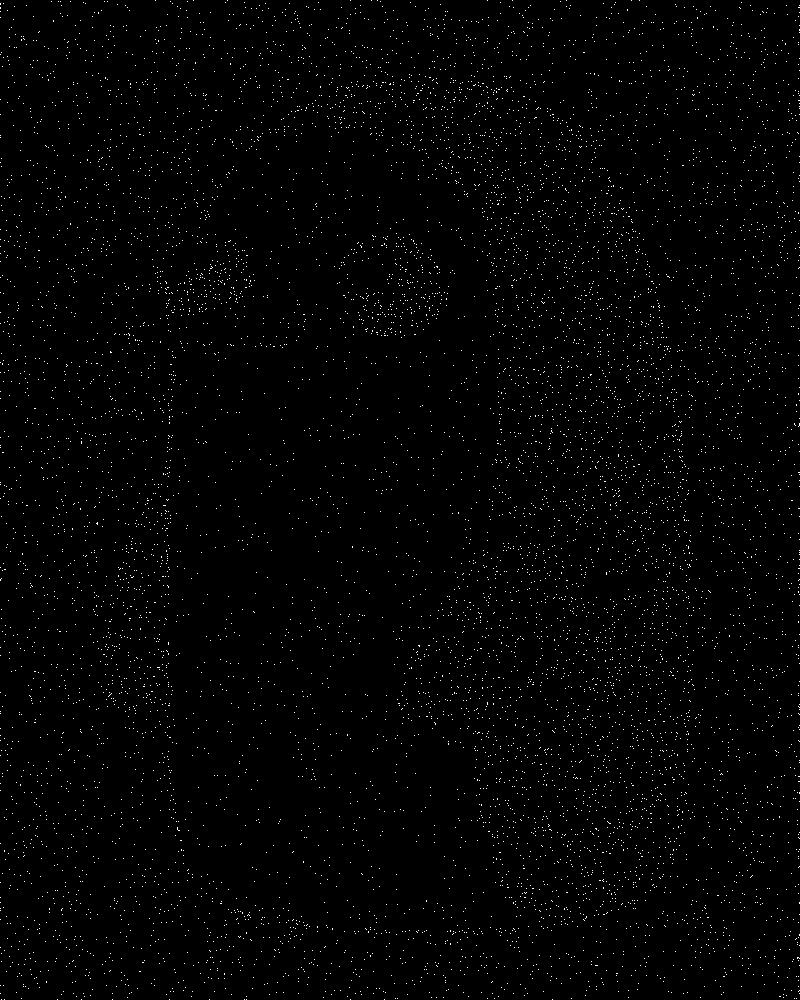
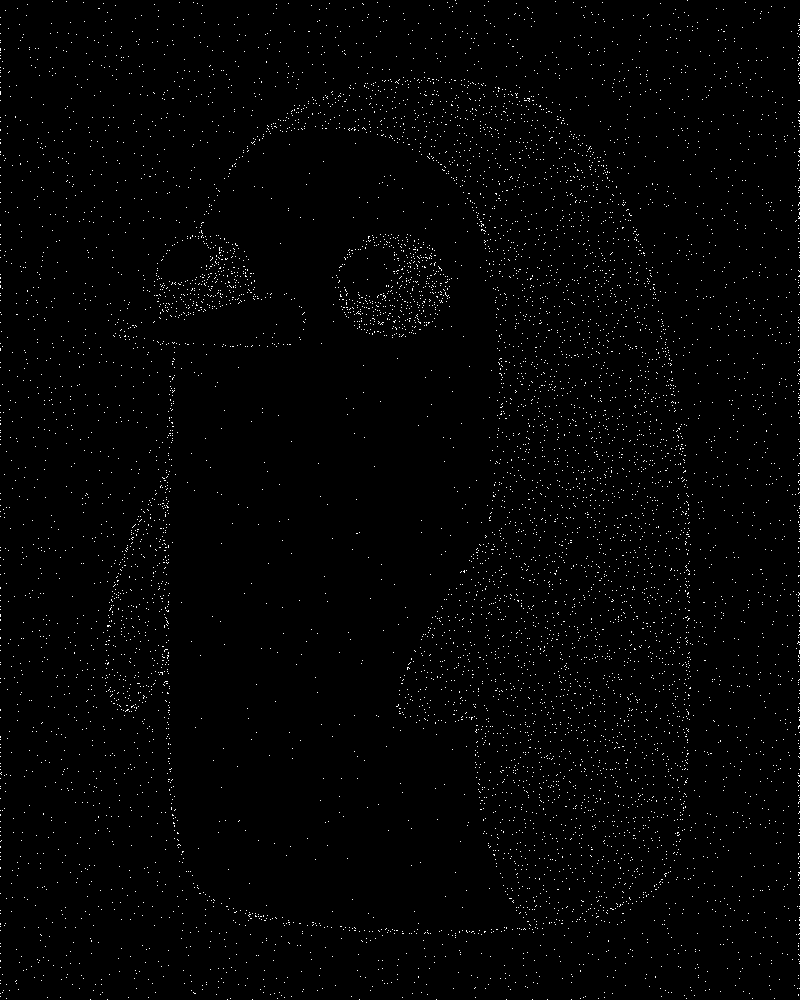
Lowered mutation chances

Changed region(s): [[0.5, 0.248, 0.5625, 0.31], [0.2188, 0.248, 0.2812, 0.31]]

diff --git a/src/main/java/dev/ga/genes/impl/ImageGene.java b/src/main/java/dev/ga/genes/impl/ImageGene.java
@@ -4,6 +4,7 @@ import dev.ga.data.IData;
 import dev.ga.data.Pixel;
 import dev.ga.genes.IGene;
 import dev.ga.genes.comp.Gene;
+import dev.ga.util.MathUtils;
 import lombok.AllArgsConstructor;
 import lombok.Getter;
 import lombok.NoArgsConstructor;
@@ -31,17 +32,16 @@ public class ImageGene extends Gene {
 
     @Override
     public double computeFitness() {
-
-        double fitness = 0;
-
+        fitness = 0;
         for (Pixel pixel : positions) {
             int rgb = image.getRGB(pixel.getX(), pixel.getY());
             var r = (rgb >> 16) & 0xff;
             var g = (rgb >> 8) & 0xff;
             var b = rgb & 0xff;
-            double y = 0.2126 * r + 0.7152 * g + 0.0722 * b; // ITU BT.709 Photometric/digital luminance
+            float y = 0.2126f * r + 0.7152f * g + 0.0722f * b; // ITU BT.709 Photometric/digital luminance
             if (y != 0) {
-                fitness += Math.log(y);
+//                fitness += y;
+                fitness += MathUtils.log2(y);
             }
         }
 
@@ -51,10 +51,8 @@ public class ImageGene extends Gene {
     @Override
     public void mutate() {
         for (Pixel pixel : positions) {
-            if (ThreadLocalRandom.current().nextDouble() > 0.8) {
+            if (ThreadLocalRandom.current().nextBoolean()) {
                 pixel.setX(ThreadLocalRandom.current().nextInt(image.getWidth()));
-            }
-            if (ThreadLocalRandom.current().nextDouble() > 0.8) {
                 pixel.setY(ThreadLocalRandom.current().nextInt(image.getHeight()));
             }
         }

diff --git a/src/main/java/dev/ga/util/MathUtils.java b/src/main/java/dev/ga/util/MathUtils.java
@@ -1,0 +1,29 @@
+package dev.ga.util;
+
+public class MathUtils {
+
+    /**
+     * Logarithmic LUT IEEE 754 float
+     * http://graphics.stanford.edu/~seander/bithacks.html#IntegerLogFloat
+     */
+    private static final int[] logTable = new int[256];
+
+    static {
+        logTable[0] = logTable[1] = 0;
+        for (int i = 2; i < 256; i++) logTable[i] = 1 + logTable[i / 2];
+        logTable[0] = -1;
+    }
+
+    public static int log2(float f) {
+        int x = Float.floatToIntBits(f);
+        int c = x >> 23;
+
+        if (c != 0) return c - 127; //Compute directly from exponent.
+        else //Subnormal, must compute from mantissa.
+        {
+            int t = x >> 16;
+            if (t != 0) return logTable[t] - 133;
+            else return (x >> 8 != 0) ? logTable[t] - 141 : logTable[x] - 149;
+        }
+    }
+}

diff --git a/src/main/java/dev/ga/genes/comp/Gene.java b/src/main/java/dev/ga/genes/comp/Gene.java
@@ -4,11 +4,11 @@ import dev.ga.genes.IGene;
 
 public abstract class Gene implements IGene {
 
-    private double fitness = -1;
+    protected double fitness = -1;
 
     @Override
     public double getFitness() {
-        return fitness == -1 ? computeFitness() : fitness;
+        return fitness == -1 ? fitness = computeFitness() : fitness;
     }
 
     @Override

diff --git a/src/main/java/dev/ga/data/Pixel.java b/src/main/java/dev/ga/data/Pixel.java
@@ -21,9 +21,6 @@ public class Pixel implements IData<Pixel> {
     public void crossOver(Pixel pix) {
         if (ThreadLocalRandom.current().nextBoolean()) {
             x = pix.getX();
-        }
-
-        if (ThreadLocalRandom.current().nextBoolean()) {
             y = pix.getY();
         }
     }
